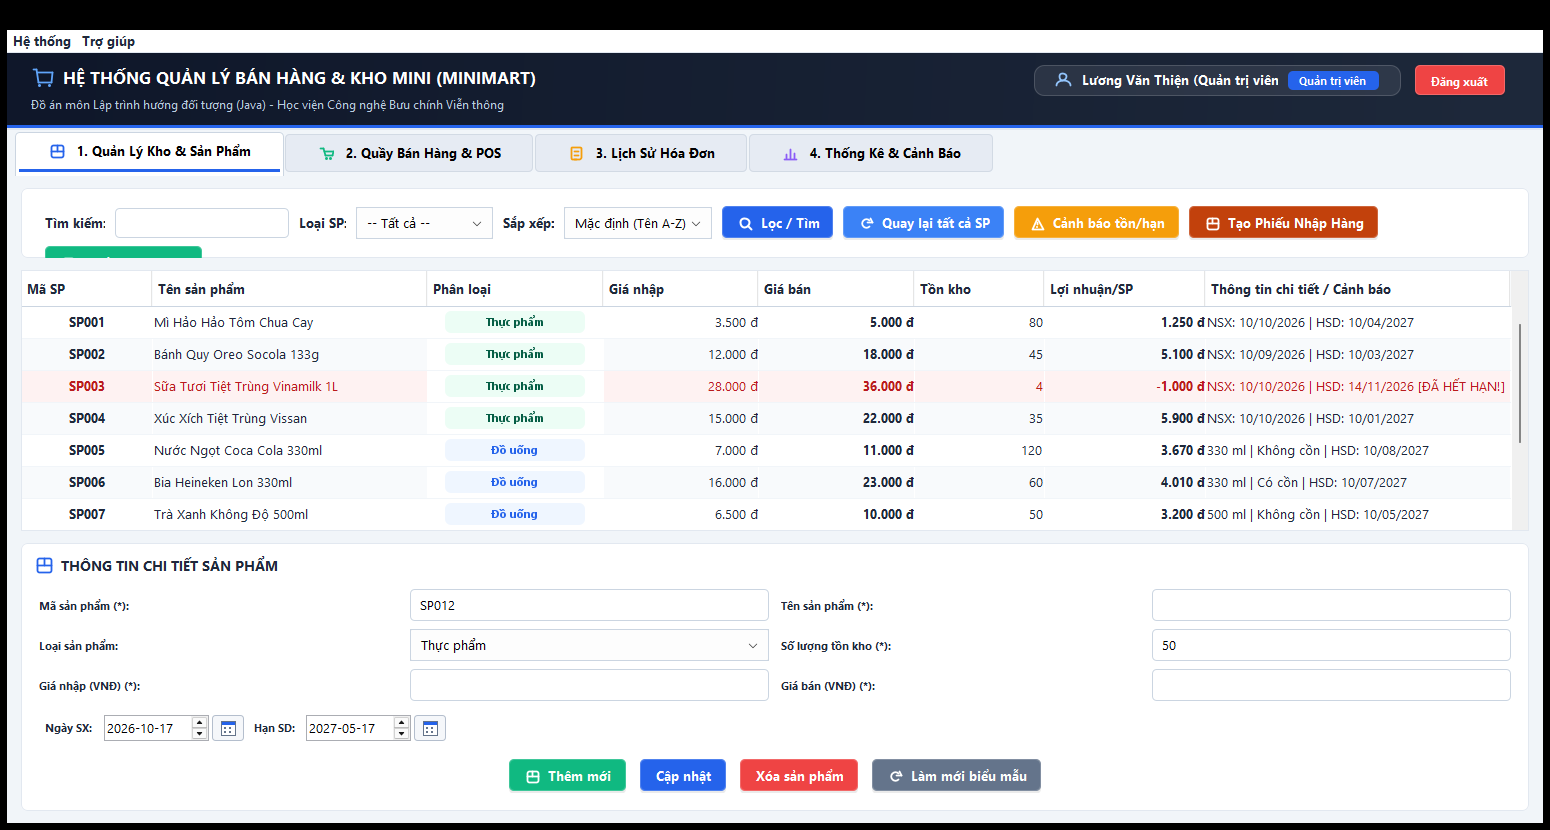
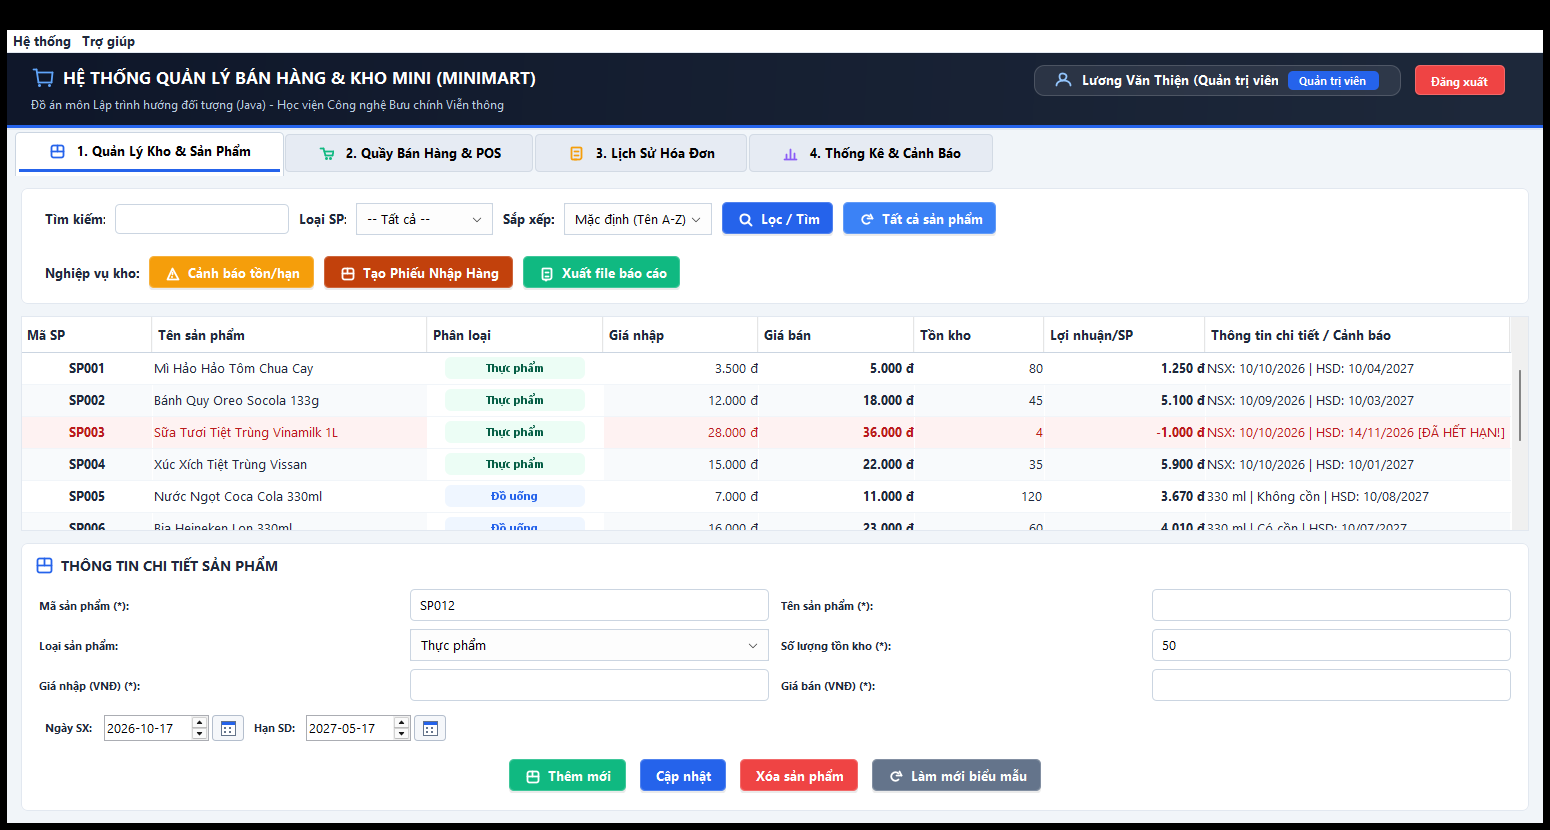
Sửa lỗi giao diện: Nới rộng nút Thêm khách hàng và chia 2 hàng thanh công cụ kho hàng tránh tràn nút

diff --git a/ProductPanel.java b/ProductPanel.java
@@ -71,33 +71,37 @@ public class ProductPanel extends JPanel {
 
     private void initComponents() {
         // =========================================================================
-        // 1. TOP PANEL: THANH TÌM KIẾM, LỌC & THAO TÁC (MODERN CARD)
+        // 1. TOP PANEL: THANH TÌM KIẾM, LỌC & THAO TÁC (2 HÀNG RÕ RÀNG)
         // =========================================================================
-        JPanel topPanel = UIUtils.createCardPanel(new FlowLayout(FlowLayout.LEFT, 10, 6));
+        JPanel topPanel = UIUtils.createCardPanel(new BorderLayout(0, 8));
+
+        // Hàng 1: Tìm kiếm, Bộ lọc phân loại & Sắp xếp
+        JPanel filterRow = new JPanel(new FlowLayout(FlowLayout.LEFT, 10, 2));
+        filterRow.setOpaque(false);
 
         JLabel lblSearch = new JLabel("Tìm kiếm:");
         lblSearch.setFont(UIUtils.BOLD_FONT);
         lblSearch.setForeground(UIUtils.NAVY_SLATE);
-        topPanel.add(lblSearch);
+        filterRow.add(lblSearch);
 
         txtSearch = new JTextField(14);
         UIUtils.styleTextField(txtSearch);
         txtSearch.setToolTipText("Nhập mã hoặc tên sản phẩm để tìm nhanh...");
-        topPanel.add(txtSearch);
+        filterRow.add(txtSearch);
 
         JLabel lblCat = new JLabel("Loại SP:");
         lblCat.setFont(UIUtils.BOLD_FONT);
         lblCat.setForeground(UIUtils.NAVY_SLATE);
-        topPanel.add(lblCat);
+        filterRow.add(lblCat);
 
         cboFilterCategory = new JComboBox<>(new String[]{"-- Tất cả --", "Thực phẩm", "Đồ uống", "Đồ điện gia dụng"});
         UIUtils.styleComboBox(cboFilterCategory);
-        topPanel.add(cboFilterCategory);
+        filterRow.add(cboFilterCategory);
 
         JLabel lblSort = new JLabel("Sắp xếp:");
         lblSort.setFont(UIUtils.BOLD_FONT);
         lblSort.setForeground(UIUtils.NAVY_SLATE);
-        topPanel.add(lblSort);
+        filterRow.add(lblSort);
 
         cboSort = new JComboBox<>(new String[]{
                 "Mặc định (Tên A-Z)",
@@ -108,12 +112,22 @@ public class ProductPanel extends JPanel {
                 "Lợi nhuận cao nhất"
         });
         UIUtils.styleComboBox(cboSort);
-        topPanel.add(cboSort);
+        filterRow.add(cboSort);
 
-        // Nút bấm có Icon vector
         btnSearch = UIUtils.createStyledButton("Lọc / Tìm", UIUtils.VectorIcons.search(15, Color.WHITE), UIUtils.PRIMARY_COLOR, Color.WHITE);
-        btnResetFilter = UIUtils.createStyledButton("Quay lại tất cả SP", UIUtils.VectorIcons.refresh(15, Color.WHITE), new Color(59, 130, 246), Color.WHITE);
+        btnResetFilter = UIUtils.createStyledButton("Tất cả sản phẩm", UIUtils.VectorIcons.refresh(15, Color.WHITE), new Color(59, 130, 246), Color.WHITE);
         btnResetFilter.setToolTipText("Bấm để hiển thị đầy đủ toàn bộ kho hàng");
+        filterRow.add(btnSearch);
+        filterRow.add(btnResetFilter);
+
+        // Hàng 2: Các nút hành động nghiệp vụ kho & xuất báo cáo
+        JPanel actionRow = new JPanel(new FlowLayout(FlowLayout.LEFT, 10, 2));
+        actionRow.setOpaque(false);
+
+        JLabel lblAction = new JLabel("Nghiệp vụ kho:");
+        lblAction.setFont(UIUtils.BOLD_FONT);
+        lblAction.setForeground(UIUtils.NAVY_SLATE);
+        actionRow.add(lblAction);
 
         btnAlertFilter = UIUtils.createStyledButton("Cảnh báo tồn/hạn", UIUtils.VectorIcons.alert(15, Color.WHITE), UIUtils.WARNING_COLOR, Color.WHITE);
         btnAlertFilter.setToolTipText("Bật/Tắt chế độ xem các sản phẩm tồn kho ít (<= 5) hoặc sắp hết hạn");
@@ -121,11 +135,12 @@ public class ProductPanel extends JPanel {
         btnCreateRestockOrder = UIUtils.createStyledButton("Tạo Phiếu Nhập Hàng", UIUtils.VectorIcons.box(15, Color.WHITE), new Color(194, 65, 12), Color.WHITE);
         btnExportCsv = UIUtils.createStyledButton("Xuất file báo cáo", UIUtils.VectorIcons.receipt(15, Color.WHITE), UIUtils.SUCCESS_COLOR, Color.WHITE);
 
-        topPanel.add(btnSearch);
-        topPanel.add(btnResetFilter);
-        topPanel.add(btnAlertFilter);
-        topPanel.add(btnCreateRestockOrder);
-        topPanel.add(btnExportCsv);
+        actionRow.add(btnAlertFilter);
+        actionRow.add(btnCreateRestockOrder);
+        actionRow.add(btnExportCsv);
+
+        topPanel.add(filterRow, BorderLayout.NORTH);
+        topPanel.add(actionRow, BorderLayout.SOUTH);
 
         add(topPanel, BorderLayout.NORTH);
 

diff --git a/PosPanel.java b/PosPanel.java
@@ -252,7 +252,8 @@ public class PosPanel extends JPanel {
 
         btnNewCustomer = UIUtils.createStyledButton("+ Thêm", UIUtils.PRIMARY_COLOR, Color.WHITE);
         btnNewCustomer.setFont(new Font("Segoe UI", Font.BOLD, 12));
-        btnNewCustomer.setPreferredSize(new Dimension(75, 30));
+        btnNewCustomer.setBorder(BorderFactory.createEmptyBorder(4, 10, 4, 10));
+        btnNewCustomer.setPreferredSize(new Dimension(92, 32));
         custRow1.add(btnNewCustomer, BorderLayout.EAST);
         cardCustomer.add(custRow1);
         cardCustomer.add(Box.createVerticalStrut(6));
